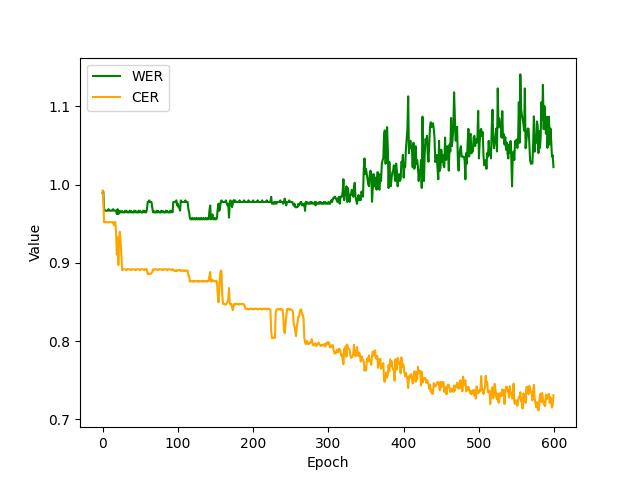
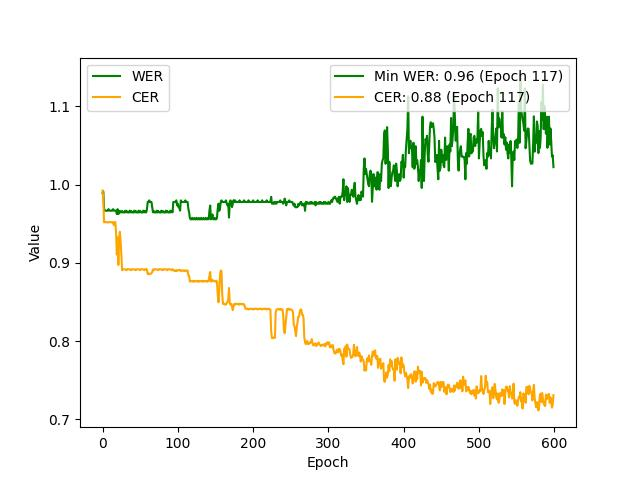
fix plot metrics to show cer related to min wer. updated plots. add kl divergences plots. add LipNet-256.

Changed region(s): [[0.5, 0.125, 0.875, 0.25]]

diff --git a/Training/lipnet/model3.py b/Training/lipnet/model3.py
@@ -1,0 +1,70 @@
+import tensorflow as tf
+from layers import CTC
+
+class LipNet(object):
+    def __init__(self, img_c=3, img_w=100, img_h=50, frames_n=100, absolute_max_string_len=54, output_size=28):
+        self.img_c = img_c
+        self.img_w = img_w
+        self.img_h = img_h
+        self.frames_n = frames_n
+        self.absolute_max_string_len = absolute_max_string_len
+        self.output_size = output_size
+        self.build()
+
+    def build(self):
+        if tf.keras.backend.image_data_format() == 'channels_first':
+            input_shape = (self.img_c, self.frames_n, self.img_w, self.img_h)
+        else:
+            input_shape = (self.frames_n, self.img_w, self.img_h, self.img_c)
+
+        self.input_data = tf.keras.Input(name='the_input', shape=input_shape, dtype='float32')
+
+        self.zero1 = tf.keras.layers.ZeroPadding3D(padding=(1, 2, 2), name='zero1')(self.input_data)
+        self.conv1 = tf.keras.layers.Conv3D(16, (3, 5, 5), strides=(1, 2, 2), kernel_initializer='he_normal', name='conv1')(self.zero1)
+        self.batc1 = tf.keras.layers.BatchNormalization(name='batc1')(self.conv1)
+        self.actv1 = tf.keras.layers.Activation('relu', name='actv1')(self.batc1)
+        self.drop1 = tf.keras.layers.SpatialDropout3D(0.5)(self.actv1)
+        self.maxp1 = tf.keras.layers.MaxPooling3D(pool_size=(1, 2, 2), strides=(1, 2, 2), name='max1')(self.drop1)
+
+        self.zero2 = tf.keras.layers.ZeroPadding3D(padding=(1, 2, 2), name='zero2')(self.maxp1)
+        self.conv2 = tf.keras.layers.Conv3D(32, (3, 5, 5), strides=(1, 1, 1), kernel_initializer='he_normal', name='conv2')(self.zero2)
+        self.batc2 = tf.keras.layers.BatchNormalization(name='batc2')(self.conv2)
+        self.actv2 = tf.keras.layers.Activation('relu', name='actv2')(self.batc2)
+        self.drop2 = tf.keras.layers.SpatialDropout3D(0.5)(self.actv2)
+        self.maxp2 = tf.keras.layers.MaxPooling3D(pool_size=(1, 2, 2), strides=(1, 2, 2), name='max2')(self.drop2)
+
+        self.zero3 = tf.keras.layers.ZeroPadding3D(padding=(1, 1, 1), name='zero3')(self.maxp2)
+        self.conv3 = tf.keras.layers.Conv3D(64, (3, 3, 3), strides=(1, 1, 1), kernel_initializer='he_normal',
+                                            name='conv3')(self.zero3)
+        self.batc3 = tf.keras.layers.BatchNormalization(name='batc3')(self.conv3)
+        self.actv3 = tf.keras.layers.Activation('relu', name='actv3')(self.batc3)
+        self.drop3 = tf.keras.layers.SpatialDropout3D(0.5)(self.actv3)
+        self.maxp3 = tf.keras.layers.MaxPooling3D(pool_size=(1, 2, 2), strides=(1, 2, 2), name='max3')(self.drop3)
+
+        self.resh1 = tf.keras.layers.TimeDistributed(tf.keras.layers.Flatten())(self.maxp3)
+
+        #  tf.compat.v1.keras.layers.GRU instead of tf.keras.layers.Dense to resolve compatibility
+        #  issues with weights tensorflow 1.10
+        self.gru_1 = tf.keras.layers.Bidirectional(
+            tf.compat.v1.keras.layers.GRU(256, return_sequences=True, kernel_initializer='Orthogonal', name='gru1'),
+            merge_mode='concat')(self.resh1)
+        self.gru_2 = tf.keras.layers.Bidirectional(
+            tf.compat.v1.keras.layers.GRU(256, return_sequences=True, kernel_initializer='Orthogonal', name='gru2'),
+            merge_mode='concat')(self.gru_1)
+
+        # transforms RNN output to character activations:
+        self.dense1 = tf.keras.layers.Dense(self.output_size, kernel_initializer='he_normal', name='dense1')(self.gru_2)
+
+        self.y_pred = tf.keras.layers.Activation('softmax', name='softmax')(self.dense1)
+
+        self.labels = tf.keras.Input(name='the_labels', shape=[self.absolute_max_string_len], dtype='float32')
+        self.input_length = tf.keras.Input(name='input_length', shape=[1], dtype='int64')
+        self.label_length = tf.keras.Input(name='label_length', shape=[1], dtype='int64')
+
+        self.loss_out = CTC('ctc', [self.y_pred, self.labels, self.input_length, self.label_length])
+
+        self.model = tf.keras.Model(inputs=[self.input_data, self.labels, self.input_length, self.label_length],
+                                    outputs=[self.dense1, self.loss_out])
+
+    def summary(self):
+        self.model.summary()

diff --git a/Training/plot_metrics.py b/Training/plot_metrics.py
@@ -31,14 +31,20 @@ def plot_val_metrics(run_name):
     plt.plot(cer, color='orange')
 
     min_wer_index = wer.idxmin()
-    min_cer_index = cer.idxmin()
+    #min_cer_index = cer.idxmin()
     min_wer_value = wer[min_wer_index]
-    min_cer_value = cer[min_cer_index]
+    min_cer_value = cer[min_wer_index]
 
+
+    '''legend1 = plt.legend(
+        [f'Min WER: {min_wer_value:.2f} (Epoch {min_wer_index})',
+         f'Min CER: {min_cer_value:.2f} (Epoch {min_cer_index})'],
+        loc='upper right'
+    )'''
 
     legend1 = plt.legend(
         [f'Min WER: {min_wer_value:.2f} (Epoch {min_wer_index})',
-         f'Min CER: {min_cer_value:.2f} (Epoch {min_cer_index})'],
+         f'CER: {min_cer_value:.2f} (Epoch {min_wer_index})'],
         loc='upper right'
     )
 
@@ -91,20 +97,33 @@ def plot_val_metrics_kd(run_name):
     plt.plot(cer1, color='red')
 
     min_wer_index = wer.idxmin()
-    min_cer_index = cer.idxmin()
+    #min_cer_index = cer.idxmin()
     min_wer1_index = wer1.idxmin()
-    min_cer1_index = cer1.idxmin()
+    #min_cer1_index = cer1.idxmin()
+
+    #min_wer_value = wer[min_wer_index]
+    #min_cer_value = cer[min_cer_index]
+    #min_wer1_value = wer1[min_wer1_index]
+    #min_cer1_value = cer1[min_cer1_index]
 
     min_wer_value = wer[min_wer_index]
-    min_cer_value = cer[min_cer_index]
+    cer_value = cer[min_wer_index]
     min_wer1_value = wer1[min_wer1_index]
-    min_cer1_value = cer1[min_cer1_index]
+    cer1_value = cer1[min_wer1_index]
 
-    legend1 = plt.legend(
+    '''legend1 = plt.legend(
         [f'Min WER: {min_wer_value:.2f} (Epoch {min_wer_index})',
          f'Min CER: {min_cer_value:.2f} (Epoch {min_cer_index})',
          f'Min WER1: {min_wer1_value:.2f} (Epoch {min_wer1_index})',
          f'Min CER1: {min_cer1_value:.2f} (Epoch {min_cer1_index})'],
+        loc='upper right'
+    )'''
+
+    legend1 = plt.legend(
+        [f'Min WER_s0: {min_wer_value:.2f} (Epoch {min_wer_index})',
+         f'CER_s0: {cer_value:.2f} (Epoch {min_wer_index})',
+         f'Min WER_s1: {min_wer1_value:.2f} (Epoch {min_wer1_index})',
+         f'CER_s1: {cer1_value:.2f} (Epoch {min_wer1_index})'],
         loc='upper right'
     )
 
@@ -112,7 +131,7 @@ def plot_val_metrics_kd(run_name):
 
     plt.ylabel('Value')
     plt.xlabel('Epoch')
-    legend2 = plt.legend(['WER', 'CER', 'WER1', 'CER1'], loc='upper left')
+    legend2 = plt.legend(['WER_s0', 'CER_s0', 'WER_s1', 'CER_s1'], loc='upper left')
 
     plt.gca().add_artist(legend1)
 
@@ -149,13 +168,13 @@ if __name__ == '__main__':
     #run_name = ("2023_10_28_11_30_29", False)
 
     # KD Training 16bs
-    #run_name = ("2023_10_31_18_23_34", True)
+    run_name = ("2023_10_31_18_23_34", True)
 
     # Vanilla Training-256 32bs
     #run_name = ("2023_11_02_10_55_00", False)
 
     # Vanilla Training 16bs
-    run_name = ("2023_11_04_16_41_41", False)
+    #run_name = ("2023_11_04_16_41_41", False)
 
     # Vanilla Training-256 16bs
     #run_name = ("2023_11_06_17_35_37", False)

diff --git a/Training/train_KD.py b/Training/train_KD.py
@@ -55,9 +55,9 @@ def train(run_name, start_epoch, stop_epoch, img_c, img_w, img_h, frames_n, abso
             start_file_w = os.path.join(OUTPUT_DIR, 'startWeight/unseen-weights178.h5')
             lipnet.model.load_weights(start_file_w)
 
-        # load preexisting trained weights for the model
+        # load preexisting trained weights for the model weights113_peer_01.h5
         if start_epoch > 0:
-            weight_file = os.path.join(OUTPUT_DIR, os.path.join(run_name, 'weights%02d.h5' % (start_epoch - 1)))
+            weight_file = os.path.join(OUTPUT_DIR, os.path.join(f"2023_10_31_17_06_50/s{n}", f'weights%02d_peer_0{n}.h5' % (start_epoch - 1)))
             lipnet.model.load_weights(weight_file)
 
         adam = tf.keras.optimizers.Adam(learning_rate=0.0001, beta_1=0.9, beta_2=0.999, epsilon=1e-08)
@@ -220,7 +220,7 @@ if __name__ == '__main__':
     run_name = datetime.datetime.now().strftime('%Y_%m_%d_%H_%M_%S')
 
     start_epoch = 0
-    stop_epoch = 100
+    stop_epoch = 340
 
     # Samples properties
     img_c = 3  # Image channels
@@ -230,7 +230,7 @@ if __name__ == '__main__':
 
     absolute_max_string_len = 54  # Max sentence length
 
-    minibatch_size = 32  # Minibatch size
+    minibatch_size = 16  # Minibatch size
 
     num_samples_stats = 95  # Number of samples for statistics evaluation per epoch
 

diff --git a/Training/lipnet/online_kd.py b/Training/lipnet/online_kd.py
@@ -133,25 +133,25 @@ def kd_loss(student_logits, ensemble_output, temperature):
             kl_values, sum_kl = kl_divergence(ensemble_output_i, logits_i)
             kl_values_batch.append(sum_kl)
             # Use to show scatter plot
-            # kl_values_batch.append(kl_values)
+            #kl_values_batch.append(kl_values)
 
         # kl_values batch contains the kl value for each sample
         students_kl.append(temperature**2 * kl_values_batch)
-        '''
-        # Create a scatter plot for each array
+
+        '''# Create a scatter plot for each array
         for i, values in enumerate(kl_values_batch):
             # New plot for each kl_set
             plt.figure(i)
 
-            plt.scatter(range(len(values)), values, label=f'Sample {i + 1}')
+            plt.scatter(range(len(values)), values)
 
-            plt.title(f'Scatter plot for sample {i + 1}')
-            plt.xlabel('Index')
+            #plt.title(f'Scatter plot for sample {i + 1}')
+            plt.xlabel('Frame index')
             plt.ylabel('Value')
-            plt.legend()
-            plt.savefig("kl_div_"+str(i)+".jpg")                
-            plt.close()
-        '''
+            #plt.legend()
+            plt.savefig("kl_div_"+str(i)+f"s{student_idx}.jpg")
+            plt.close()'''
+
     return students_kl
 
 

diff --git a/Training/train.py b/Training/train.py
@@ -51,12 +51,12 @@ def train(run_name, start_epoch, stop_epoch, img_c, img_w, img_h, frames_n, abso
 
     # load weights
     if start_epoch == 0:
-        start_file_w = os.path.join(OUTPUT_DIR, 'startWeight/unseen-weights178.h5')
+        start_file_w = os.path.join(OUTPUT_DIR, 'startWeight/weights99_peer_01.h5')
         lipnet.model.load_weights(start_file_w)
 
     # load preexisting trained weights for the model
     if start_epoch > 0:
-        weight_file = os.path.join(OUTPUT_DIR, os.path.join(run_name, 'weights%02d.h5' % (start_epoch - 1)))
+        weight_file = os.path.join(OUTPUT_DIR, os.path.join("2023_10_28_14_28_20", 'weights%02d.h5' % (start_epoch - 1)))
         lipnet.model.load_weights(weight_file)
     
 
@@ -87,6 +87,7 @@ def train(run_name, start_epoch, stop_epoch, img_c, img_w, img_h, frames_n, abso
 if __name__ == '__main__':
     run_name = datetime.datetime.now().strftime('%Y_%m_%d_%H_%M_%S')
 
+
     start_epoch = 0
     stop_epoch = 100
 
@@ -98,7 +99,7 @@ if __name__ == '__main__':
 
     absolute_max_string_len = 54  # Max sentence length
 
-    minibatch_size = 32  # Minibatch size
+    minibatch_size = 16  # Minibatch size
 
     num_samples_stats = 95  # Number of samples for statistics evaluation per epoch
 

diff --git a/Training/lipnet/callbacks.py b/Training/lipnet/callbacks.py
@@ -73,7 +73,6 @@ class Statistics(tf.keras.callbacks.Callback):
         mean_bleu, mean_bleu_norm = self.get_mean_bleu_score(data)
 
         # Compute the mean CTC loss
-        # TODO check mean
         validation_loss = np.mean(val_ctc_losses)
 
         return {
@@ -137,7 +136,7 @@ class Statistics(tf.keras.callbacks.Callback):
                  "Mean BLEU (Norm)"])
 
 
-    '''
+
     def on_batch_end(self, y_pred, batch, logs=None):
         """
         Callback called at the end of each batch during model training to save batch results for KD attention.
@@ -158,7 +157,7 @@ class Statistics(tf.keras.callbacks.Callback):
         bleu_scores = self.get_bleu_scores(batch_results)
 
         return cer_values, wer_values, bleu_scores
-    '''
+
 
 
     def on_epoch_end(self, epoch, logs={}):
